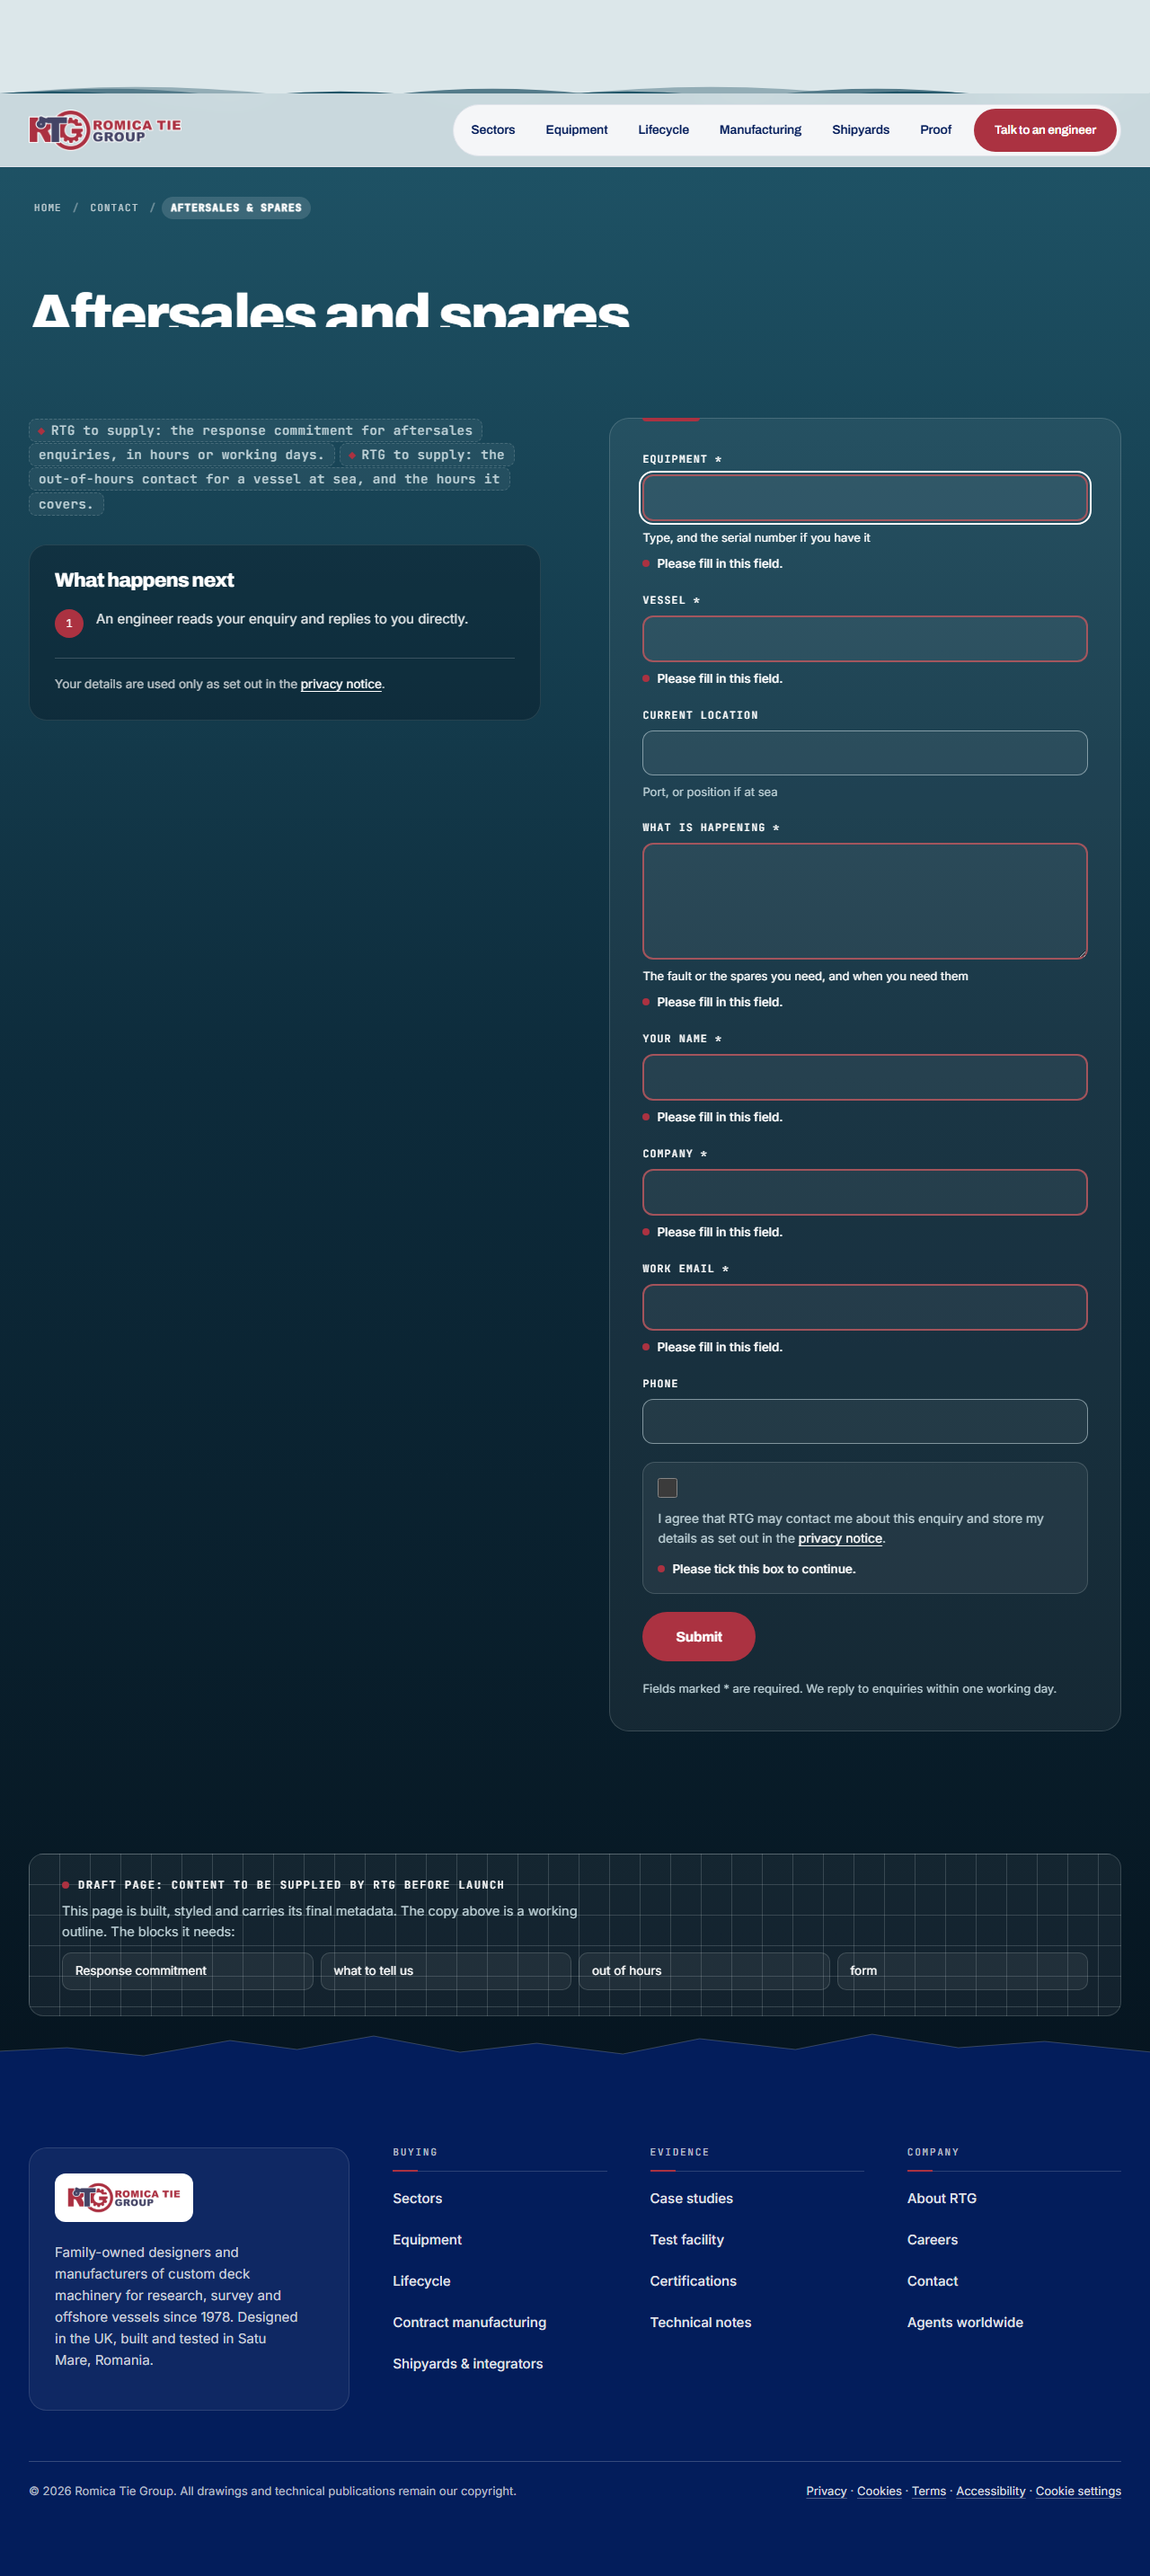
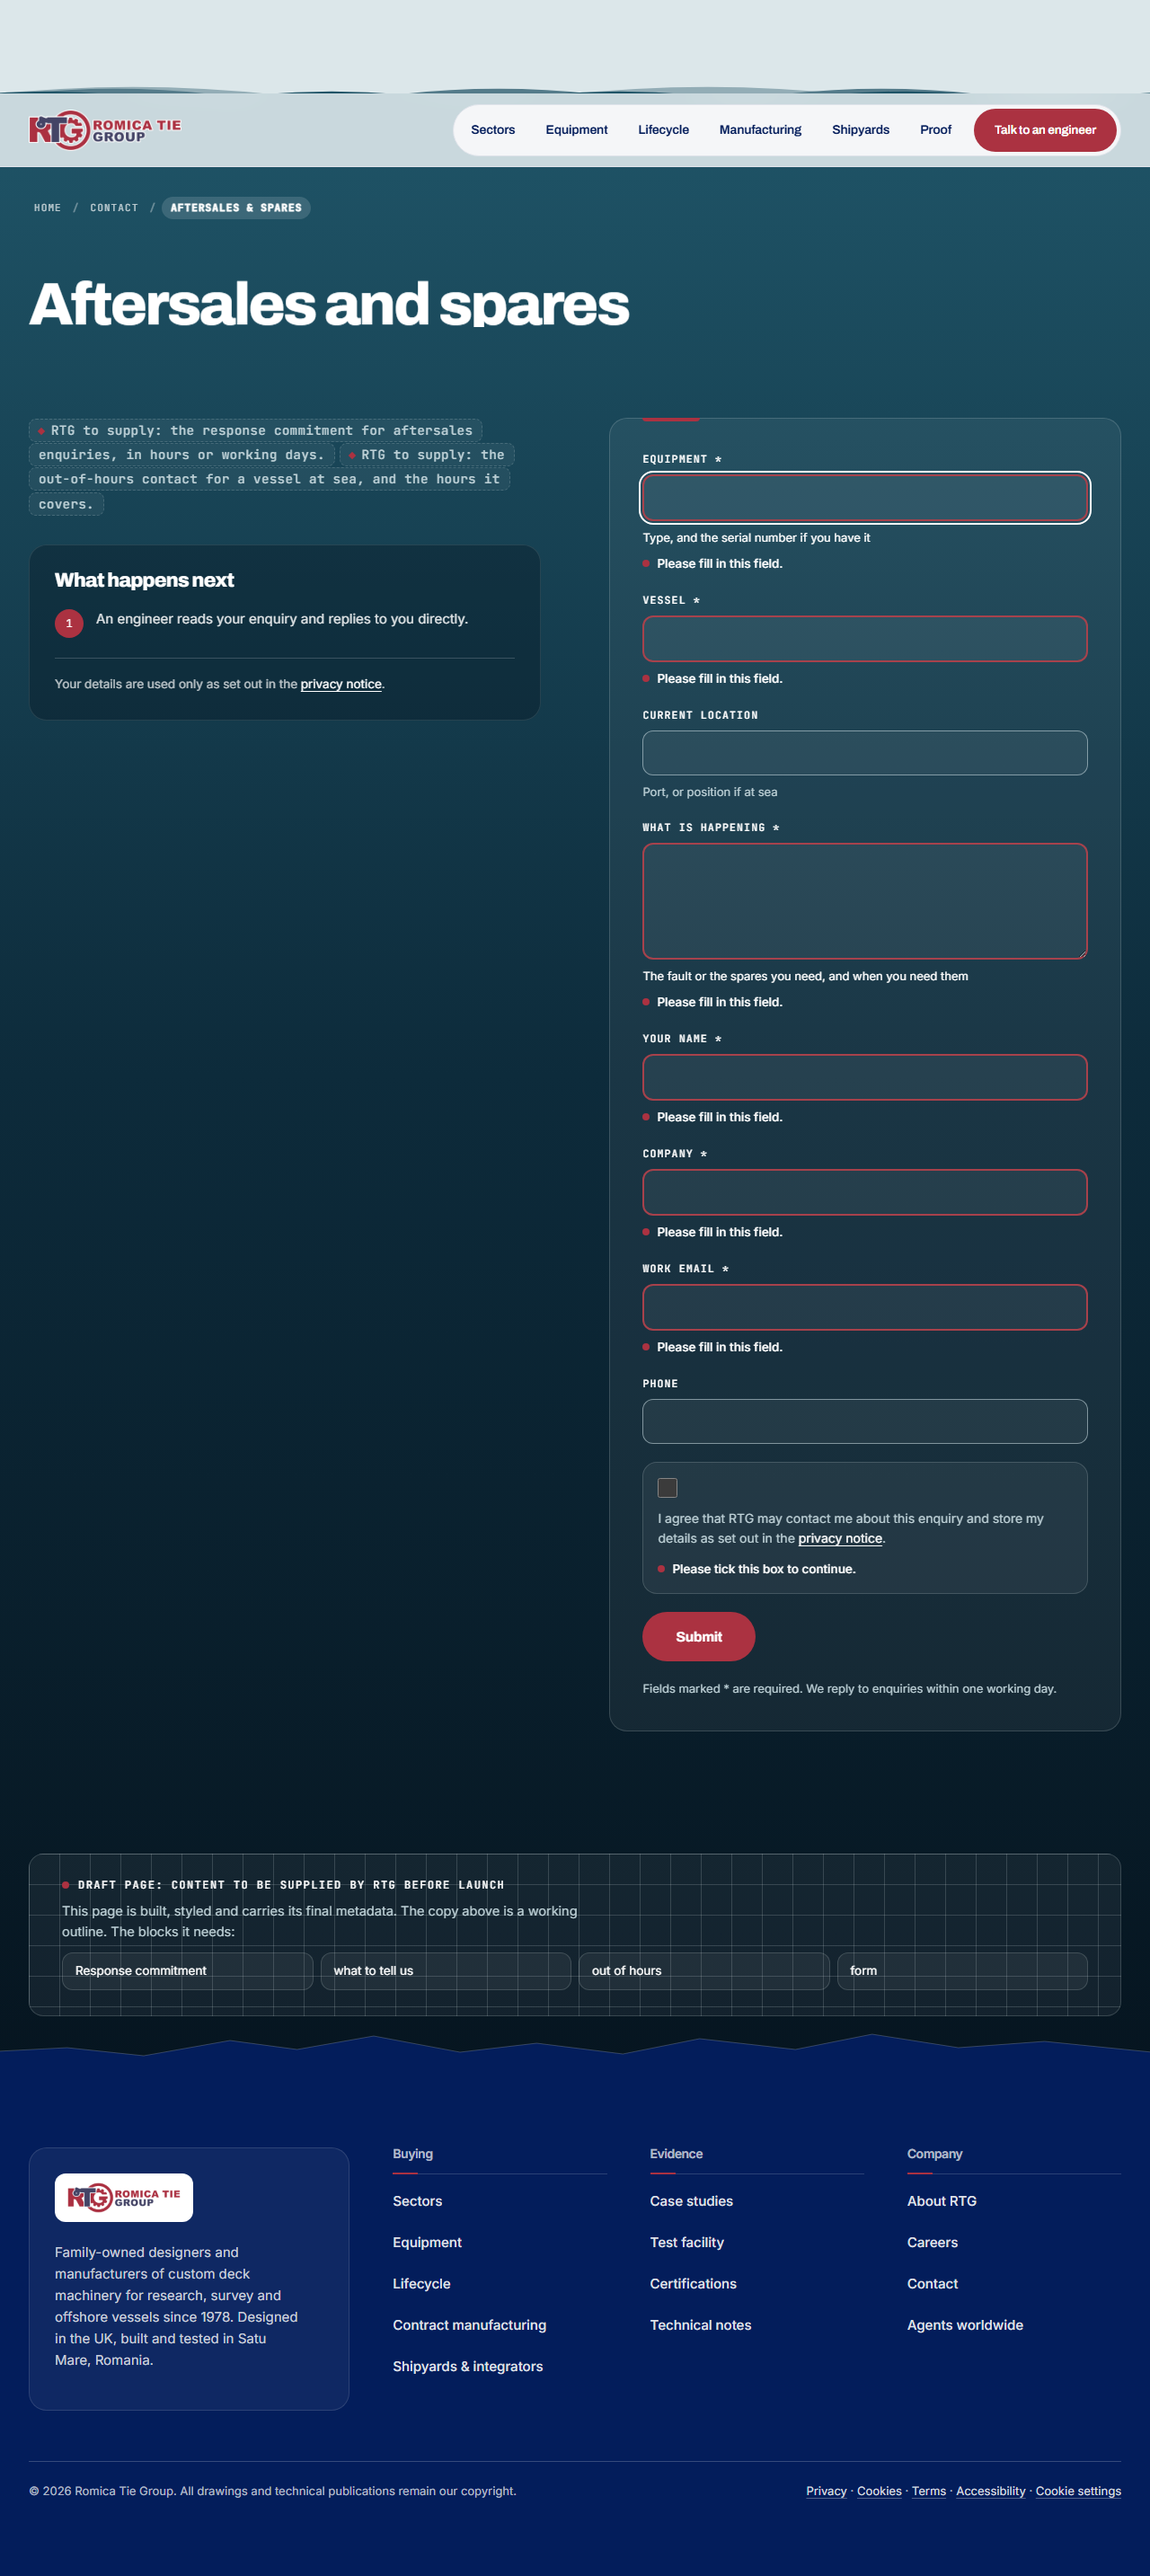
docs: DESIGN.md drops the last cool-grade reference

diff --git a/RTG_Website/DESIGN.md b/RTG_Website/DESIGN.md
@@ -242,7 +242,7 @@ The homepage runs in a fixed order under its sky hero: the proof strip (four fig
 
 ## Elevation & Depth
 
-The system is flat. There is no box-shadow anywhere in the build. Depth comes from the water: the page darkens as the reader descends, and surfaces separate from it only by a faint translucent fill (panel) and a 1px hairline. Photographs fade up out of the water through a mask rather than starting on a hard edge, and photo cards use a dark teal scrim (a gradient over the image) so white type stays legible. Homepage photographs carry no scrim and never carry type; they are graded cool instead (The Cool Grade Rule). The header's 14px backdrop blur is the only blur.
+The system is flat. There is no box-shadow anywhere in the build. Depth comes from the water: the page darkens as the reader descends, and surfaces separate from it only by a faint translucent fill (panel) and a 1px hairline. Photographs fade up out of the water through a mask rather than starting on a hard edge, and photo cards use a dark teal scrim (a gradient over the image) so white type stays legible. Homepage photographs carry no scrim and never carry type; they are shown in their true colour (The True Colour Rule). The header's 14px backdrop blur is the only blur.
 
 **The No Shadow Rule.** No drop shadows, no glows, no hard offset shadows. If something needs to stand forward, give it a hairline and a panel fill.
 
